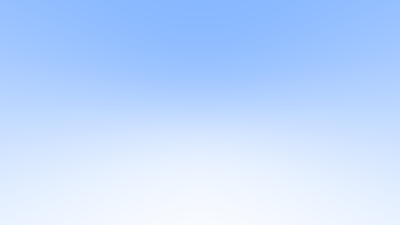
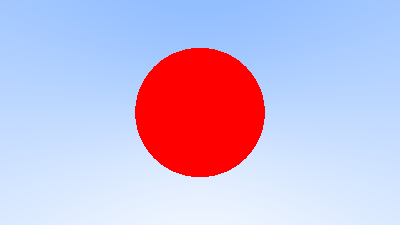
create our first raytraced image

Changed region(s): [[0.33, 0.1867, 0.66, 0.8089]]

diff --git a/src/ray.rs b/src/ray.rs
@@ -15,11 +15,26 @@ impl Ray {
         self.origin + t * self.direction
     }
 
-    /// 根据 y 值将蓝白做了个线性插值的混合, 我们这里把射线做了个单位化, 以保证 y 的取值范围
-    // (-1.0 < y < 1.0) 。因为我们使用 y 轴做渐变, 所以你可以看到这个蓝白渐变也是竖直的。
     pub fn ray_color(&self) -> Vec3 {
+        const WHITE: Vec3 = Vec3(1.0, 1.0, 1.0);
+        const SKY_BLUE: Vec3 = Vec3(0.5, 0.7, 1.0);
+        const RED: Vec3 = Vec3(1.0, 0.0, 0.0);
+
+        if self.hit_sphere(Vec3(0.0, 0.0, -1.0), 0.5) {
+            return RED;
+        }
+        
         let unit_direction = self.direction.to_unit_vector();
         let t = 0.5 * (unit_direction.y() + 1.0);
-        (1.0 - t) * Vec3(1.0, 1.0, 1.0) + t * Vec3(0.5, 0.7, 1.0)
+        (1.0 - t) * WHITE + t * SKY_BLUE
+    }
+
+    pub fn hit_sphere(&self, center: Vec3, radius: f32) -> bool {
+        let oc = self.origin - center;
+        let a = self.direction.dot(self.direction);
+        let b = 2.0 * oc.dot(self.direction);
+        let c = oc.dot(oc) - radius * radius;
+        let discriminant = b * b - 4.0 * a * c;
+        discriminant > 0.0
     }
 }

diff --git a/src/main.rs b/src/main.rs
@@ -21,7 +21,7 @@ fn main() {
 
     let origin = Vec3(0.0, 0.0, 0.0);
     let horizontal = Vec3(viewport_width, 0.0, 0.0);
-    let vertical = Vec3(0.0, viewport_width, 0.0);
+    let vertical = Vec3(0.0, viewport_height, 0.0);
     let lower_left_corner =
         origin - horizontal / 2.0 - vertical / 2.0 - Vec3(0.0, 0.0, focal_length);
 
